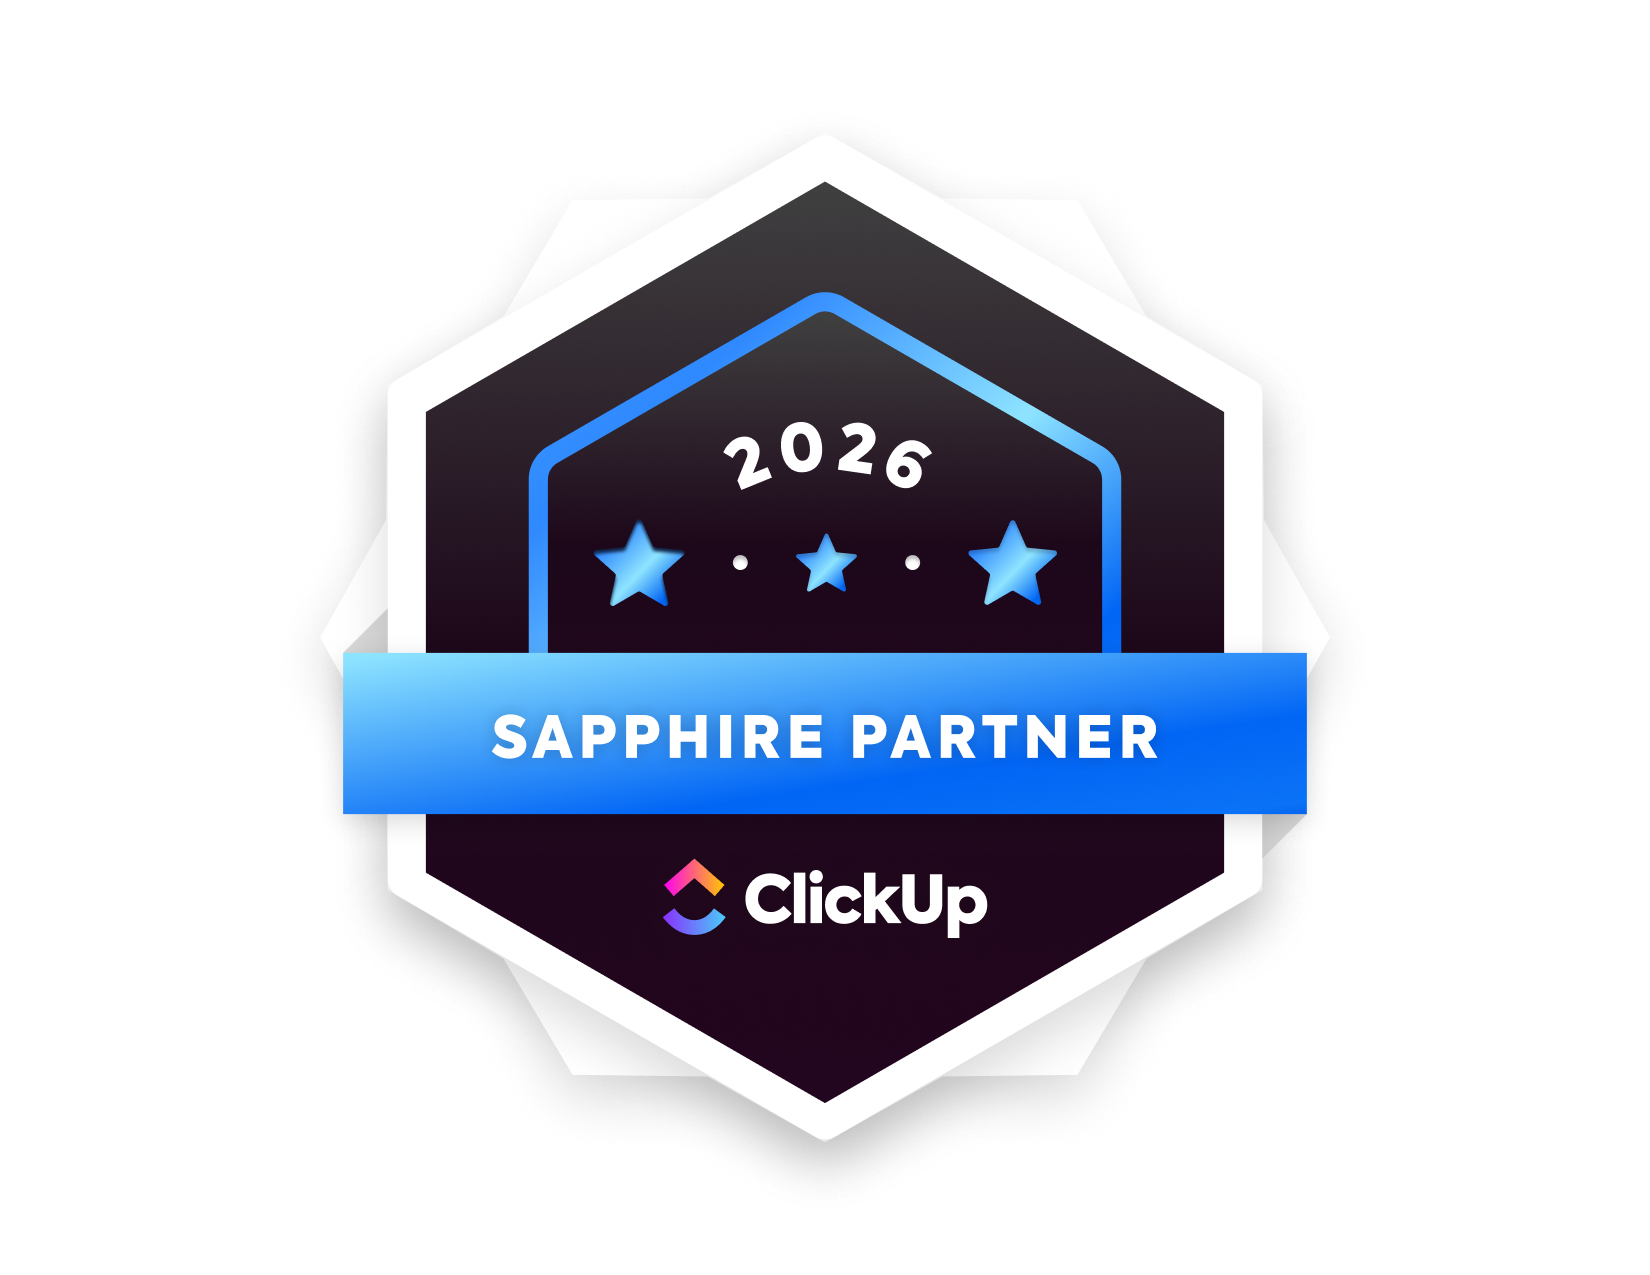
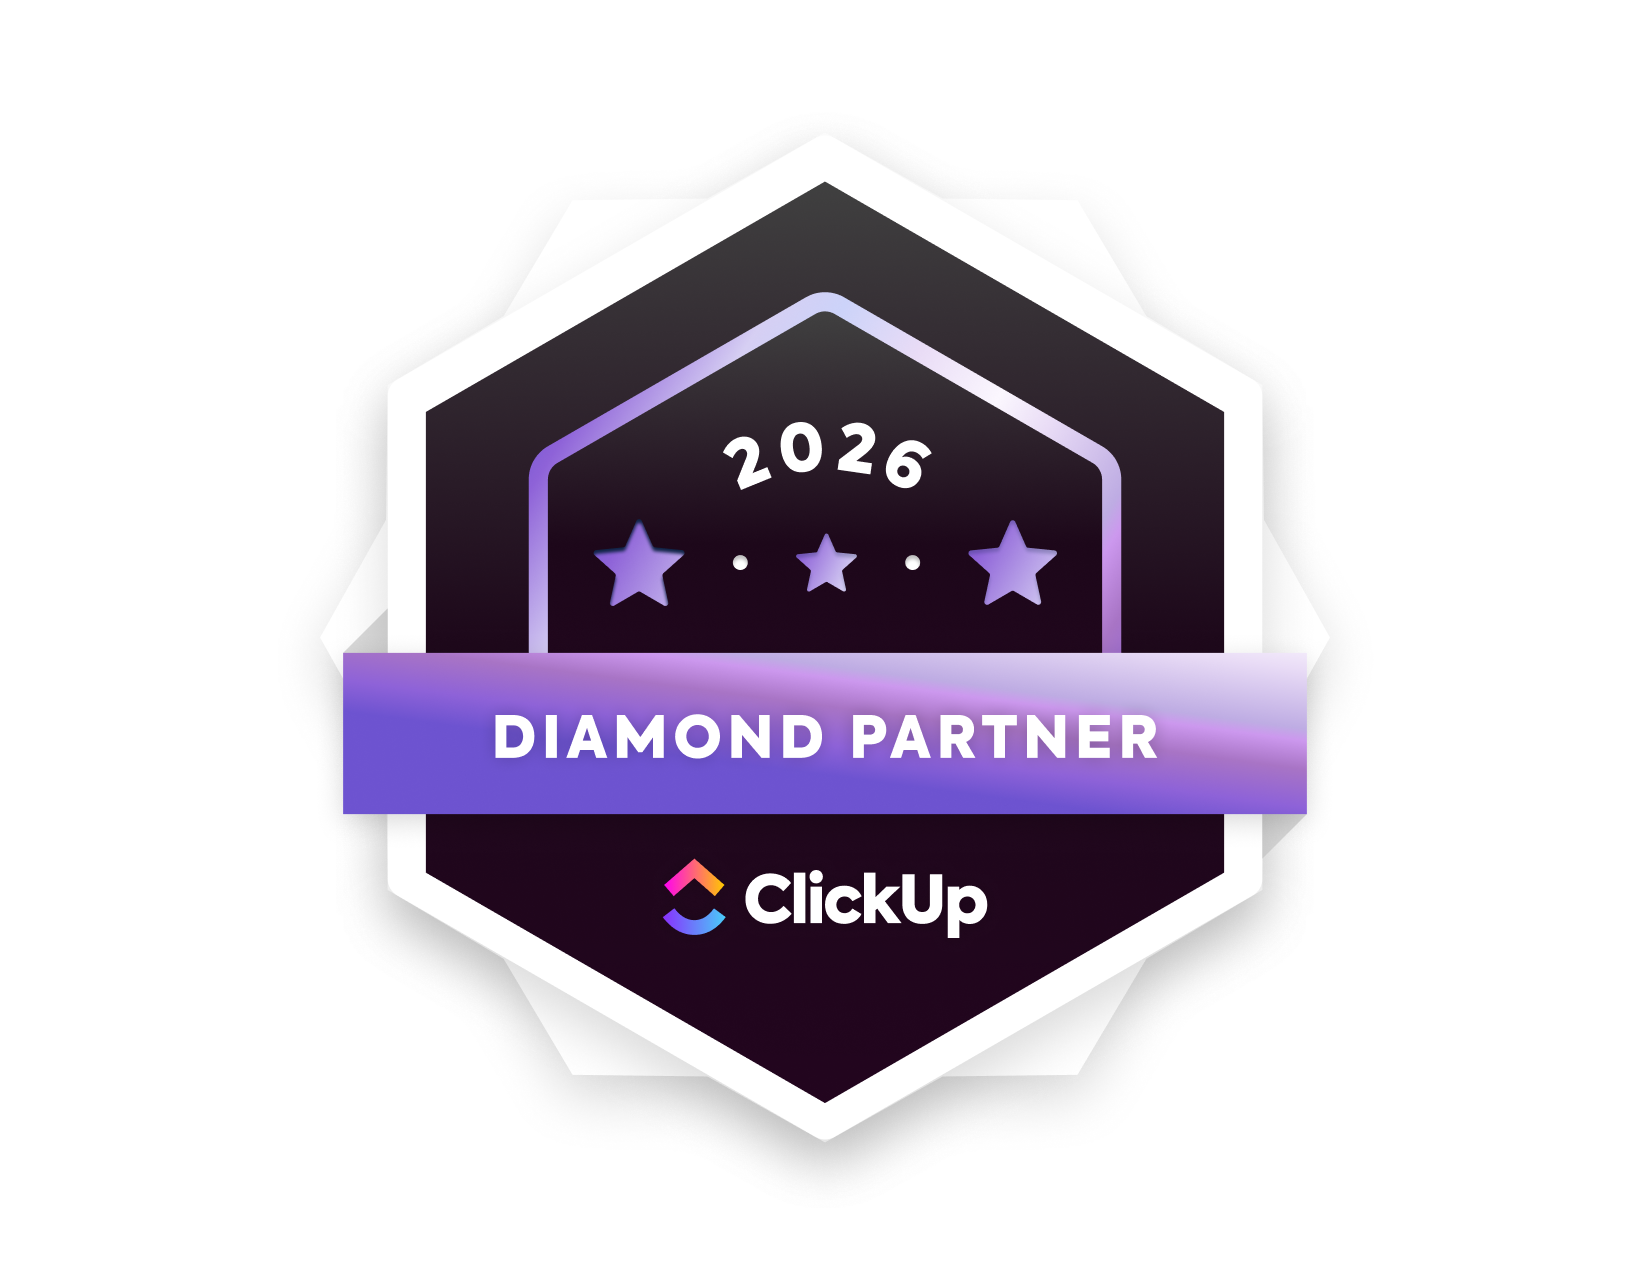
feat: real scan progress (no demo numbers), Diamond partner badge, instant cursor

Changed region(s): [[0.1855, 0.2753, 0.8036, 0.6424], [0.4018, 0.2141, 0.5564, 0.3059], [0.4636, 0.4282, 0.5255, 0.4588]]

diff --git a/app/src/app/scan/[id]/page.tsx b/app/src/app/scan/[id]/page.tsx
@@ -1,39 +1,50 @@
 'use client'
 
-import { useEffect, useRef, useState } from 'react'
+import { useEffect, useState } from 'react'
 import { useParams, useRouter } from 'next/navigation'
 import { motion } from 'framer-motion'
 import { Eyebrow, IconCheck, Panel } from '@/components/ui'
 import { getScanStatus, IS_MOCK } from '@/lib/api'
-import { MOCK_SCAN_STAGES } from '@/lib/mock/scan'
 
 const RADIUS = 78
 const CIRC = 2 * Math.PI * RADIUS
 
-const STAGES = MOCK_SCAN_STAGES
+// Matches the worker's progress stages (see inngest/scan.ts).
+const STAGES = [
+  { label: 'Connecting to ClickUp', detail: 'Secure OAuth · read-only', at: 5 },
+  { label: 'Mapping workspace structure', detail: 'Spaces, Folders and Lists', at: 15 },
+  { label: 'Analysing tasks', detail: 'Pagination · retries · rate limits', at: 35 },
+  { label: 'Sampling activity', detail: 'Comments and member activity', at: 55 },
+  { label: 'Calculating Health Score', detail: '7 weighted categories', at: 70 },
+  { label: 'Generating recommendations', detail: 'AI explanations grounded in metrics', at: 90 },
+  { label: 'Report ready', detail: '', at: 100 },
+]
+
+function stageIndexFor(pct: number) {
+  return STAGES.reduce((acc, s, i) => (pct >= s.at ? i : acc), 0)
+}
 
 export default function ScanPage() {
   const router = useRouter()
   const params = useParams<{ id: string }>()
   const id = params.id
-  const [index, setIndex] = useState(0)
-  const [tasks, setTasks] = useState(0)
+  const [pct, setPct] = useState(0)
+  const [score, setScore] = useState<number | null>(null)
+  const index = stageIndexFor(pct)
   const done = index >= STAGES.length - 1
 
   useEffect(() => {
-    const target = 14217
-    const t = setInterval(() => setTasks((v) => (v + Math.round(target / 34) >= target ? target : v + Math.round(target / 34))), 90)
-    return () => clearInterval(t)
-  }, [])
-
-  useEffect(() => {
     if (IS_MOCK) {
-      if (index >= STAGES.length - 1) {
-        const end = setTimeout(() => router.replace(`/report/${id}`), 1200)
-        return () => clearTimeout(end)
-      }
-      const t = setTimeout(() => setIndex((i) => i + 1), index === 0 ? 900 : 900)
-      return () => clearTimeout(t)
+      let i = 0
+      const t = setInterval(() => {
+        i += 1
+        setPct(Math.min(100, Math.round((i / (STAGES.length - 1)) * 100)))
+        if (i >= STAGES.length - 1) {
+          clearInterval(t)
+          setTimeout(() => router.replace(`/report/${id}`), 1200)
+        }
+      }, 900)
+      return () => clearInterval(t)
     }
 
     // Real mode: poll the scan status.
@@ -42,11 +53,18 @@ export default function ScanPage() {
       try {
         const s = await getScanStatus(id)
         if (!active) return
-        const stageIndex = Math.min(STAGES.length - 1, Math.floor((s.progress / 100) * (STAGES.length - 1)))
-        setIndex(stageIndex)
-        if (s.status === 'complete') router.replace(`/report/${id}`)
-        else if (s.status === 'failed') setIndex(STAGES.length - 1)
-        else setTimeout(poll, 1500)
+        setPct(s.progress ?? 0)
+        if (s.status === 'complete') {
+          setScore(s.result?.overallScore ?? null)
+          setPct(100)
+          setTimeout(() => router.replace(`/report/${id}`), 1400)
+          return
+        }
+        if (s.status === 'failed') {
+          setPct(100)
+          return
+        }
+        setTimeout(poll, 1500)
       } catch {
         if (active) setTimeout(poll, 2000)
       }
@@ -55,9 +73,9 @@ export default function ScanPage() {
     return () => {
       active = false
     }
-  }, [id, router, index])
+  }, [id, router])
 
-  const progress = Math.min(1, (index + 0.35) / STAGES.length)
+  const progress = Math.min(1, pct / 100)
 
   return (
     <div className="mx-auto grid min-h-screen max-w-[980px] place-items-center px-6 pb-16 pt-32">
@@ -83,14 +101,17 @@ export default function ScanPage() {
             </svg>
             <div className="absolute text-center">
               <div className="font-mono text-3xl tabular-nums text-txt-primary">{Math.round(progress * 100)}%</div>
-              <div className="font-mono text-[10px] uppercase tracking-widest text-txt-faint">{tasks.toLocaleString()} tasks</div>
+              <div className="font-mono text-[10px] uppercase tracking-widest text-txt-faint">
+                {done ? (score != null ? `Score ${score}/100` : 'Complete') : 'Audit in progress'}
+              </div>
             </div>
           </div>
 
           <div className="space-y-1.5">
             {STAGES.map((s, i) => {
-              const isDone = i < index
-              const active = i === index
+              const isDone = i < index || (done && i === index)
+              const active = i === index && !done
+              const detail = i === STAGES.length - 1 && score != null ? `Score ${score} / 100` : s.detail
               return (
                 <div key={s.label} className={`flex items-center gap-4 rounded-xl px-4 py-3 transition-colors ${active ? 'bg-brand-ink/[0.05]' : ''}`}>
                   <span className={`grid h-7 w-7 shrink-0 place-items-center rounded-full border ${isDone ? 'border-sev-good/40 bg-sev-good/15 text-sev-good' : active ? 'border-magenta/50 bg-magenta/10 text-magenta' : 'border-line text-txt-faint'}`}>
@@ -98,7 +119,7 @@ export default function ScanPage() {
                   </span>
                   <span className="flex-1">
                     <span className={`block text-sm ${isDone || active ? 'text-txt-primary' : 'text-txt-faint'}`}>{s.label}</span>
-                    <span className="block font-mono text-[11px] text-txt-faint">{s.detail}</span>
+                    {detail && <span className="block font-mono text-[11px] text-txt-faint">{detail}</span>}
                   </span>
                 </div>
               )

diff --git a/app/src/components/report/LeadCapture.tsx b/app/src/components/report/LeadCapture.tsx
@@ -76,8 +76,8 @@ export default function LeadCapture({ scanId }: { scanId: string }) {
         <div className="relative grid place-items-center overflow-hidden border-t border-line bg-brand-ink/[0.03] p-8 lg:border-l lg:border-t-0">
           <div className="pointer-events-none absolute inset-0 bg-[radial-gradient(120%_120%_at_80%_0%,rgba(95,186,149,0.28),transparent_60%)]" />
           <motion.div initial={{ opacity: 0, scale: 0.9, y: 10 }} whileInView={{ opacity: 1, scale: 1, y: 0 }} viewport={{ once: true }} transition={{ type: 'spring', stiffness: 200, damping: 20 }} className="relative text-center">
-            <img src="/brand/partner-badge.png" alt="ClickUp Sapphire Partner 2026" className="mx-auto h-40 w-auto drop-shadow-[0_16px_30px_rgba(23,52,53,0.25)]" />
-            <div className="mt-4 font-mono text-[10px] uppercase tracking-eyebrow text-txt-faint">ClickUp Sapphire Partner</div>
+            <img src="/brand/partner-badge.png" alt="ClickUp Diamond Partner 2026" className="mx-auto h-40 w-auto drop-shadow-[0_16px_30px_rgba(23,52,53,0.25)]" />
+            <div className="mt-4 font-mono text-[10px] uppercase tracking-eyebrow text-txt-faint">ClickUp Diamond Partner</div>
           </motion.div>
         </div>
       </div>

diff --git a/app/src/components/Cursor.tsx b/app/src/components/Cursor.tsx
@@ -21,8 +21,8 @@ export default function Cursor() {
     }
 
     const loop = () => {
-      ringPos.x += (pos.x - ringPos.x) * 0.7
-      ringPos.y += (pos.y - ringPos.y) * 0.7
+      ringPos.x = pos.x
+      ringPos.y = pos.y
       if (dot.current) dot.current.style.transform = `translate3d(${pos.x}px, ${pos.y}px, 0)`
       if (ring.current) {
         ring.current.style.transform = `translate3d(${ringPos.x}px, ${ringPos.y}px, 0) scale(${hover ? 1.9 : 1})`

diff --git a/app/src/components/Footer.tsx b/app/src/components/Footer.tsx
@@ -8,7 +8,7 @@ export default function Footer() {
         <div className="flex items-center gap-5">
           <img
             src="/brand/partner-badge.png"
-            alt="ClickUp Sapphire Partner 2026"
+            alt="ClickUp Diamond Partner 2026"
             className="h-12 w-auto"
           />
           <span className="font-mono text-[10px] uppercase tracking-widest text-txt-faint">
